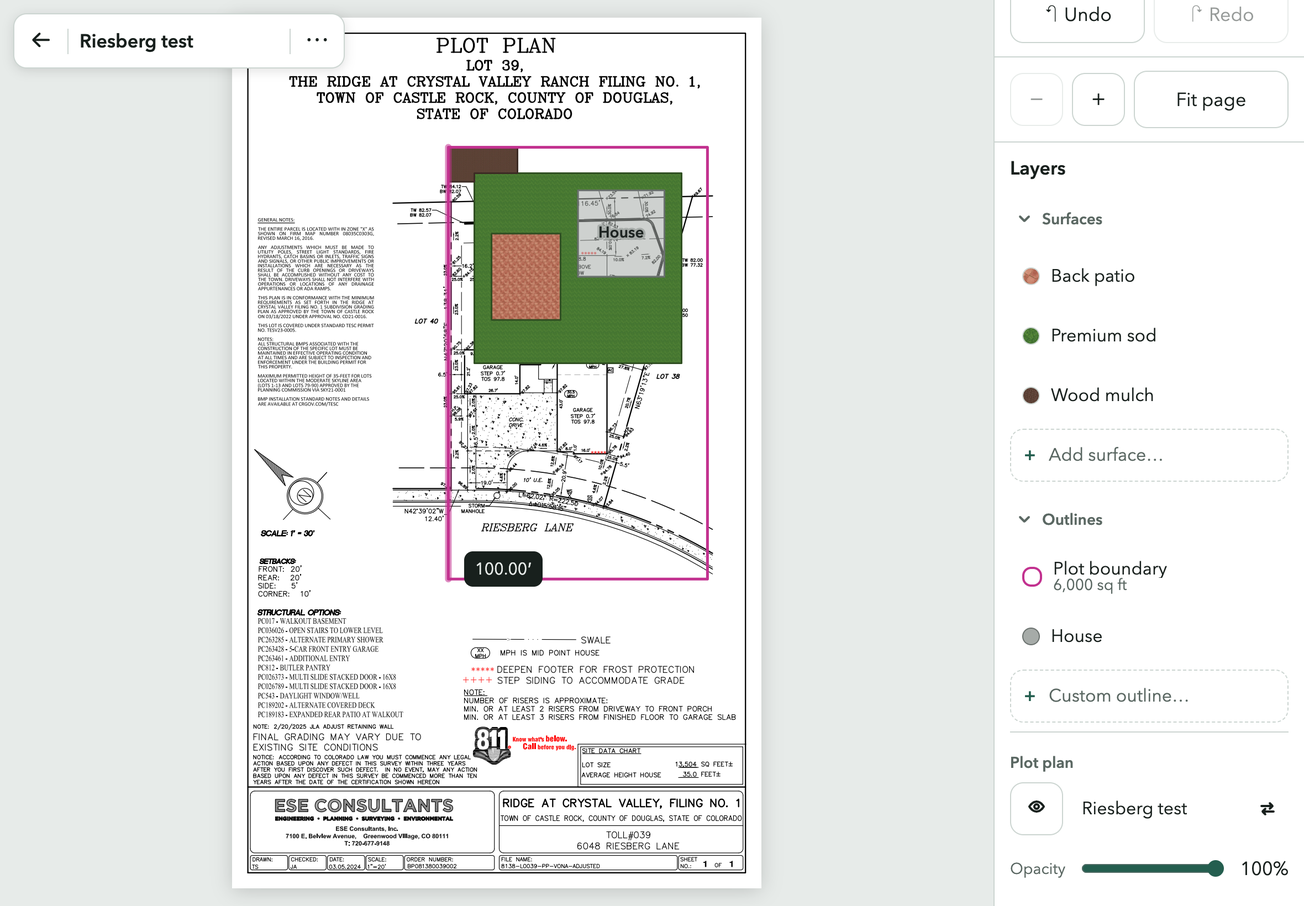
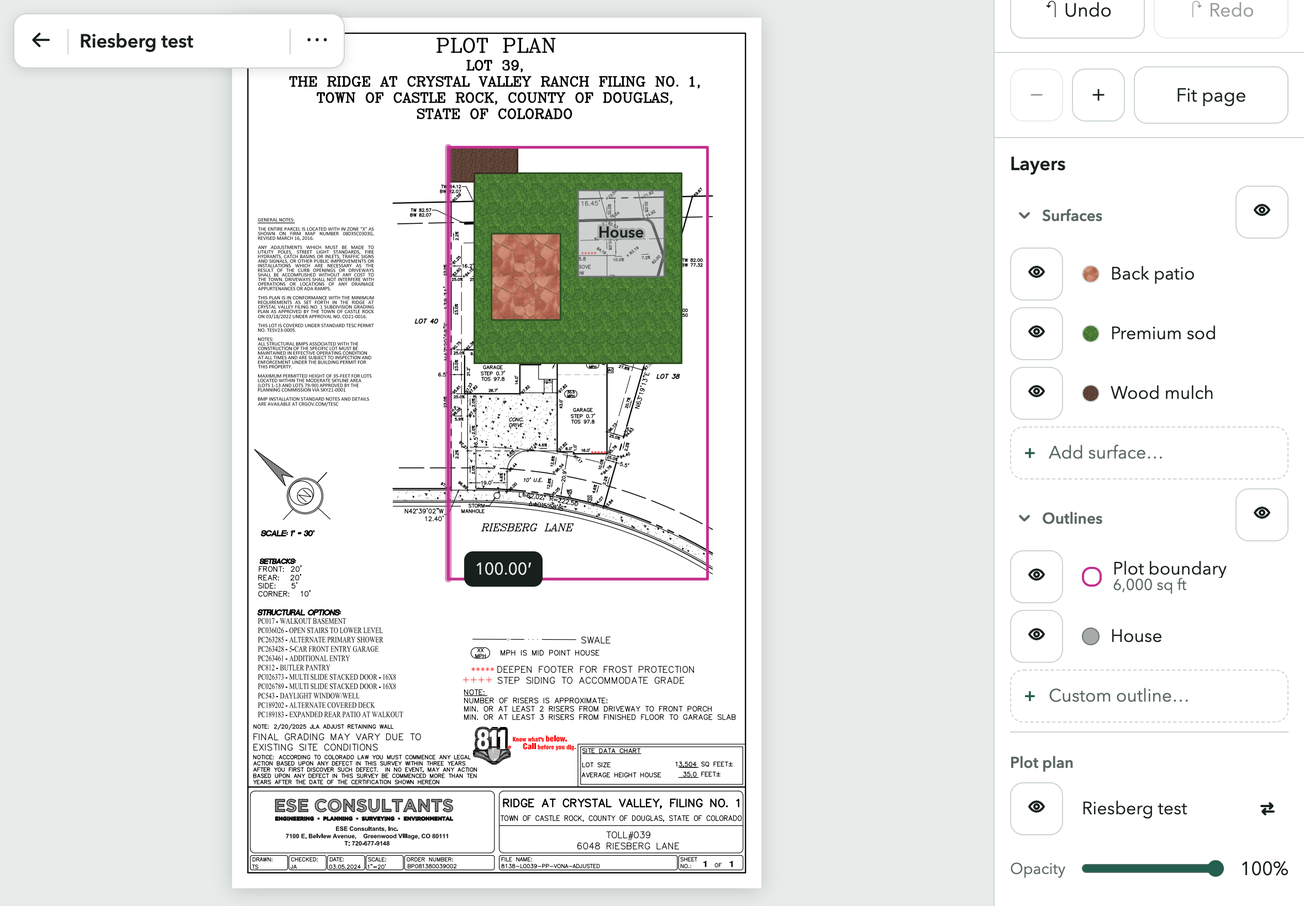
feat(surfaces): per-zone texture scale; show/hide layers and sections, saved with the plan

diff --git a/plan-builder/src/outline-ui.ts b/plan-builder/src/outline-ui.ts
@@ -3,11 +3,12 @@
 import {
   areaPt2, bulgeToward, constrain45, dist, edgeMid, edgePoints, formatFeet, formatScale, guides, nearestEdge,
   edgeTapOrder, moveInSection, nearestOnRing, snapSources, outlinePath, parseFeet, parseRadius, rectCorners, sectionPosition,
-  type Outline, type OutlineKind, type OutlineShape,
+  TEX_SCALE, type Outline, type OutlineKind, type OutlineShape,
 } from './outline';
 import { History } from './history';
 import { committedOutlines } from './editor-state';
 import type { PlanState } from './plan-model';
+import { groupOf, isHidden, type Group } from './sections';
 import { calibrate, IDENTITY, lineFeet, sameCorrection, type Calibration, type Correction, type Reference } from './scale';
 import { GESTURE, HIT, MAGNIFIER, MARK, POPOVER, SQUARE_CHIP, TIP } from './overlay-tokens';
 import { alignAll, alignCorner, cornerAngle, type Tidied } from './square';
@@ -98,6 +99,9 @@ export class OutlineTool {
   private dragBefore: Snapshot | null = null;
   private lastNudge: { t: number; id: string; i: number } | null = null;
   private revision = 0;
+  /** Hidden layers (by id) and sections: saved with the plan, but not undoable (like the view). */
+  hiddenLayers = new Set<string>();
+  hiddenSections = new Set<Group>();
 
   private svg: SVGSVGElement;
   private magnifier: HTMLCanvasElement;
@@ -165,6 +169,7 @@ export class OutlineTool {
   /** Replace everything with a saved plan: no selection, no undo history; snap and shape preferences stay. */
   load(state: PlanState) {
     this.outlines = structuredClone(state.outlines); this.refs = structuredClone(state.refs);
+    this.hiddenLayers = new Set(state.hiddenLayers?.filter(id => state.outlines[id])); this.hiddenSections = new Set(state.hiddenSections);
     this.drawing = null; this.replaced = null; this.selected = null; this.selectedCorner = null;
     this.drag = null; this.dragAt = null; this.snapped = null; this.stick = null; this.angle = null; this.hoverPlaced = null;
     this.selectedEdge = null; this.lastTap = null; this.lastNudge = null;
@@ -174,7 +179,28 @@ export class OutlineTool {
     this.update();
   }
   /** What to save: outlines and references, minus any outline still being drawn. */
-  state(): PlanState { return { outlines: committedOutlines(this.outlines, this.drawing, this.replaced), refs: structuredClone(this.refs) }; }
+  state(): PlanState {
+    const outlines = committedOutlines(this.outlines, this.drawing, this.replaced);
+    const layers = [...this.hiddenLayers].filter(id => outlines[id]);
+    return { outlines, refs: structuredClone(this.refs), hiddenLayers: layers.length ? layers : undefined, hiddenSections: this.hiddenSections.size ? [...this.hiddenSections] : undefined };
+  }
+  isHidden(id: string): boolean { const o = this.outlines[id]; return !!o && isHidden(o, this.hiddenLayers, this.hiddenSections); }
+  /** Show or hide one layer; a hidden layer isn't drawn, selected, snapped to or tapped. Not an undo step. */
+  toggleLayer(id: string) {
+    if (!this.outlines[id] || id === this.drawing) return;
+    if (!this.hiddenLayers.delete(id)) this.hiddenLayers.add(id);
+    this.visibilityChanged();
+  }
+  /** Show or hide a whole section; each layer's own eye is left as it was. */
+  toggleSection(g: Group) {
+    if (!this.hiddenSections.delete(g)) this.hiddenSections.add(g);
+    this.visibilityChanged();
+  }
+  private visibilityChanged() {
+    if (this.selected && this.isHidden(this.selected)) { this.selected = null; this.selectedCorner = null; this.selectedEdge = null; }
+    this.revision++; // saved, but nothing to undo
+    this.update();
+  }
   get saveRevision() { return this.revision; }
   undo() { if (this.drag) return; const s = this.history.undo(this.snapshot()); if (s) this.restore(s); }
   redo() { if (this.drag) return; const s = this.history.redo(this.snapshot()); if (s) this.restore(s); }
@@ -205,6 +231,15 @@ export class OutlineTool {
     o.material = m;
     this.update();
   }
+  /** Set a surface's texture scale (1 = the material's own repeat), within TEX_SCALE. */
+  setTexScale(id: string, scale: number) {
+    const o = this.outlines[id]; if (o?.kind !== 'surface') return;
+    const s = Math.min(TEX_SCALE.max, Math.max(TEX_SCALE.min, scale));
+    if ((o.texScale ?? 1) === s) return;
+    this.record();
+    if (s === 1) delete o.texScale; else o.texScale = s;
+    this.update();
+  }
   /** Draw an existing outline again from scratch, keeping its name; Cancel puts the old one back. */
   redraw(id: string) { const o = this.outlines[id]; if (o) this.begin(id, o.kind, o.name, o.material); }
   private begin(id: string, kind: OutlineKind, name: string, m?: MaterialId) {
@@ -212,6 +247,7 @@ export class OutlineTool {
     this.record();
     this.replaced = this.outlines[id] ?? null;
     this.outlines[id] = { id, kind, name, pts: [], closed: false, ...(m ? { material: m } : {}) };
+    this.hiddenLayers.delete(id); this.hiddenSections.delete(groupOf(this.outlines[id]!)); // drawing into a hidden layer shows it
     this.drawing = id;
     this.shape = this.shapePrefs[shapeGroup(kind)];
     this.selectedEdge = null; this.lastTap = null; this.selectedCorner = null; this.selected = null;
@@ -458,7 +494,7 @@ export class OutlineTool {
   /** Outlines a placed point may snap to: tracing the boundary or a feature ignores designed surfaces. */
   private snapTargets(exclude?: { id: string; i: number }) {
     const editing = exclude?.id ?? this.drawing;
-    return snapSources(Object.values(this.outlines), editing ? this.outlines[editing]?.kind ?? null : null);
+    return snapSources(Object.values(this.outlines).filter(o => !this.isHidden(o.id)), editing ? this.outlines[editing]?.kind ?? null : null);
   }
   private findSnap(raw: Point, exclude: { id: string; i: number } | undefined, lineOnly: boolean): Point | null {
     if (lineOnly) {
@@ -605,7 +641,7 @@ export class OutlineTool {
   }
   /** Select an outline from the Layers panel (null: drop the selection). */
   selectOutline(id: string | null) {
-    if (this.drawing || (id && !this.outlines[id]?.closed)) return;
+    if (this.drawing || (id && (!this.outlines[id]?.closed || this.isHidden(id)))) return;
     if (id !== this.selected) this.aspectLock = false;
     this.selectedEdge = null; this.selectedCorner = null; this.selected = id; this.update();
   }
@@ -647,7 +683,7 @@ export class OutlineTool {
   /** The layer whose visible part is under p (visible parts never overlap; one wholly covered can't be tapped). */
   private featureAt(p: Point): string | null {
     const pp = this.host.toPage(p);
-    for (const [id, shape] of this.visible) if (insideShape(shape, pp)) return id;
+    for (const [id, shape] of this.visible) if (!this.isHidden(id) && insideShape(shape, pp)) return id;
     return null;
   }
 
@@ -754,7 +790,7 @@ export class OutlineTool {
   private edgeAt(p: Point): { id: string; i: number } | null {
     const tol = HIT.edge / this.host.pxPerPt(), pp = this.host.toPage(p);
     for (const o of edgeTapOrder(Object.values(this.outlines), this.selected)) {
-      if (!o?.closed) continue;
+      if (!o?.closed || this.isHidden(o.id)) continue;
       const i = nearestEdge(o.pts, pp, tol, o.bulges);
       if (i !== null) return { id: o.id, i };
     }
@@ -912,7 +948,7 @@ export class OutlineTool {
     const paint = [...all.filter(o => o.kind === 'surface'), ...all.filter(o => o.kind !== 'surface')];
     paint.sort((a, b) => Number(a.id === active) - Number(b.id === active));
     for (const o of paint) {
-      if (!o || !o.pts.length) continue;
+      if (!o || !o.pts.length || (this.isHidden(o.id) && o.id !== this.drawing)) continue;
       const pts = o.pts.map(p => h.toScreen(p));
       const drawingThis = this.drawing === o.id, cursor = drawingThis ? this.dragAt ?? (this.drag ? null : this.hoverPlaced) : null;
       // Rectangle in progress: preview the whole rectangle from the first corner to the pointer.
@@ -957,7 +993,7 @@ export class OutlineTool {
     for (const o of Object.values(this.outlines)) {
       // Feature names go on top of every shape so overlapping features stay readable, inside each one's visible
       // part. Surfaces carry no label: their fill says what they are, and the row names them.
-      if (o.kind === 'surface') continue;
+      if (o.kind === 'surface' || this.isHidden(o.id)) continue;
       const shown = this.visible.get(o.id), at = shown && shapeLabelPoint(shown);
       if (!at) continue;
       const c = h.toScreen(at);

diff --git a/plan-builder/src/surfaces-ui.ts b/plan-builder/src/surfaces-ui.ts
@@ -2,7 +2,8 @@
 // zone in layer order (a higher zone cuts the ones below; outlines cut every zone), then "Add surface…", which
 // opens a material picker; picking a material starts drawing. The zone being drawn or selected expands into a card.
 import { material, materialsByFamily, type MaterialId } from './materials';
-import { formatFeet, parseFeet, parseRadius, type Outline } from './outline';
+import { TEX_SCALE } from './outline';
+import { formatFeet, parseFeet, parseRadius, stepTexScale, type Outline } from './outline';
 import type { OutlineTool } from './outline-ui';
 import { drawingCard, editActions, orderControl, wireLayerCard } from './layer-card';
 import { button, caption, choiceLine, chips, esc, field, formStack, hint, input, layerCard, layerForm, layerRow, nudgePad, row, suggestRow, swatch } from './ui';
@@ -24,7 +25,7 @@ export class SurfacesSection {
     if (t.drawing || !t.boundaryClosed) this.picking = false;
     if (this.changing && this.changing !== t.selected) this.changing = null; // the picker closes with the card
     const rows = zones.map(o => o.id === t.drawing || (!t.drawing && o.id === t.selected) ? this.card(o)
-      : layerRow(o.name, { swatch: { material: o.material! }, data: { zone: o.id } }));
+      : layerRow(o.name, { swatch: { material: o.material! }, data: { zone: o.id }, eye: { id: o.id, hidden: t.isHidden(o.id) } }));
     this.el.innerHTML = `
       ${zones.length ? '' : hint('Add the new surfaces: lawn, beds, patio…')}
       ${rows.join('')}
@@ -38,12 +39,17 @@ export class SurfacesSection {
     // Adding a zone closes the selected one's card, so only one material picker shows at a time.
     this.el.querySelector<HTMLButtonElement>('[data-act=add-surface]')?.addEventListener('click', () => { this.picking = true; if (t.selected) t.selectOutline(null); else this.render(); });
     this.el.querySelector<HTMLButtonElement>('[data-act=cancel-picker]')?.addEventListener('click', () => { this.picking = false; this.render(); });
+    this.el.querySelectorAll<HTMLButtonElement>('[data-eye]').forEach(b => { b.onclick = () => t.toggleLayer(b.dataset.eye!); });
     const card = this.el.querySelector<HTMLElement>('[data-card]');
     // The picker's chips start a new zone; the card's chips change that zone's material.
     this.el.querySelectorAll<HTMLButtonElement>('.layer-form [data-material]').forEach(b => { b.onclick = () => t.startSurface(b.dataset.material as MaterialId); });
     card?.querySelectorAll<HTMLButtonElement>('[data-material]').forEach(b => { b.onclick = () => { this.changing = null; t.setMaterial(card.dataset.card!, b.dataset.material as MaterialId); this.render(); }; });
     this.el.querySelector('form')?.addEventListener('submit', e => e.preventDefault());
     if (card) wireLayerCard(card, t, { 'change-material': () => { this.changing = card.dataset.card!; this.render(); } });
+    const scaleOf = () => t.outlines[card?.dataset.card ?? '']?.texScale ?? 1;
+    card?.querySelector<HTMLButtonElement>('[data-act=tex-down]')?.addEventListener('click', () => t.setTexScale(card.dataset.card!, stepTexScale(scaleOf(), -1)));
+    card?.querySelector<HTMLButtonElement>('[data-act=tex-up]')?.addEventListener('click', () => t.setTexScale(card.dataset.card!, stepTexScale(scaleOf(), 1)));
+    card?.querySelector<HTMLButtonElement>('[data-act=tex-reset]')?.addEventListener('click', () => t.setTexScale(card.dataset.card!, 1));
     const size = this.el.querySelector<HTMLFormElement>('form.zone-size');
     if (size && card) {
       const commit = (axis: 'w' | 'h', el: HTMLInputElement) => {
@@ -73,6 +79,15 @@ export class SurfacesSection {
       box('zone-depth', 'Depth', b.h))}`, 'zone-size', true);
   }
 
+  /** Texture scale: − smaller, the percent (tap to reset to 100%), + larger. */
+  private texScale(o: Outline): string {
+    const s = o.texScale ?? 1;
+    return `${caption('Texture scale')}${row(
+      button('−', { mods: ['icon'], ariaLabel: 'Smaller texture', data: { act: 'tex-down' }, disabled: s <= TEX_SCALE.min }),
+      button(`${Math.round(s * 100)}%`, { mods: ['compact'], ariaLabel: 'Reset texture scale to 100%', data: { act: 'tex-reset' } }),
+      button('+', { mods: ['icon'], ariaLabel: 'Larger texture', data: { act: 'tex-up' }, disabled: s >= TEX_SCALE.max }))}`;
+  }
+
   /** The expanded row: drawing — the step and Close shape / Cancel; selected — rename, material, rounding, tidy, order. */
   private card(o: Outline): string {
     const t = this.tool, sw = { material: o.material! };
@@ -84,7 +99,7 @@ export class SurfacesSection {
       input('round-all', { inputmode: 'decimal', placeholder: 'Radius, e.g. 2′' }), button('Apply', { mods: ['compact'], type: 'submit' }))), 'round-all') : '';
     return layerCard({
       id: o.id, swatch: sw, name: o.name, done: true, rename: true, renameId: 'surface-rename',
-      body: `${caption('Material')}${mat}${this.size(o)}${t.cornerSelected ? nudgePad() : ''}${round}${editActions(true)}${orderControl(t, o.id)}`,
+      body: `${caption('Material')}${mat}${this.texScale(o)}${this.size(o)}${t.cornerSelected ? nudgePad() : ''}${round}${editActions(true)}${orderControl(t, o.id)}`,
     });
   }
 }

diff --git a/plan-builder/index.html b/plan-builder/index.html
@@ -44,17 +44,27 @@
         </section>
         <section class="side-section layers">
           <h2 class="side-title">Layers</h2>
-          <button type="button" class="group-head" data-group="surfaces" aria-expanded="true" aria-controls="group-surfaces">
-            <svg class="line-icon chevron" viewBox="0 0 16 16" aria-hidden="true"><path d="M4 6l4 4 4-4" /></svg>
-            <span class="group-title">Surfaces</span><span class="group-count" hidden></span>
-          </button>
+          <div class="group-line">
+            <button type="button" class="group-head" data-group="surfaces" aria-expanded="true" aria-controls="group-surfaces">
+              <svg class="line-icon chevron" viewBox="0 0 16 16" aria-hidden="true"><path d="M4 6l4 4 4-4" /></svg>
+              <span class="group-title">Surfaces</span><span class="group-count" hidden></span>
+            </button>
+            <button type="button" class="icon" data-eye-group="surfaces" aria-pressed="true" aria-label="Hide all surfaces" title="Hide all surfaces">
+              <svg class="line-icon" viewBox="0 0 16 16" aria-hidden="true"><path class="eye" d="M1.5 8s2.5-4.5 6.5-4.5S14.5 8 14.5 8s-2.5 4.5-6.5 4.5S1.5 8 1.5 8z" /><circle class="eye" cx="8" cy="8" r="2" /><path class="eye-off" d="M2.5 2.5l11 11" /></svg>
+            </button>
+          </div>
           <div class="group-body" id="group-surfaces">
             <div class="layer-list" id="surfaces"></div>
           </div>
-          <button type="button" class="group-head" data-group="outlines" aria-expanded="true" aria-controls="group-outlines">
-            <svg class="line-icon chevron" viewBox="0 0 16 16" aria-hidden="true"><path d="M4 6l4 4 4-4" /></svg>
-            <span class="group-title">Outlines</span><span class="group-count" hidden></span>
-          </button>
+          <div class="group-line">
+            <button type="button" class="group-head" data-group="outlines" aria-expanded="true" aria-controls="group-outlines">
+              <svg class="line-icon chevron" viewBox="0 0 16 16" aria-hidden="true"><path d="M4 6l4 4 4-4" /></svg>
+              <span class="group-title">Outlines</span><span class="group-count" hidden></span>
+            </button>
+            <button type="button" class="icon" data-eye-group="outlines" aria-pressed="true" aria-label="Hide all outlines" title="Hide all outlines">
+              <svg class="line-icon" viewBox="0 0 16 16" aria-hidden="true"><path class="eye" d="M1.5 8s2.5-4.5 6.5-4.5S14.5 8 14.5 8s-2.5 4.5-6.5 4.5S1.5 8 1.5 8z" /><circle class="eye" cx="8" cy="8" r="2" /><path class="eye-off" d="M2.5 2.5l11 11" /></svg>
+            </button>
+          </div>
           <div class="group-body" id="group-outlines">
             <div class="layer-list" id="outlines"></div>
             <div class="plan-layer">

diff --git a/plan-builder/src/ui.ts b/plan-builder/src/ui.ts
@@ -110,15 +110,24 @@ export interface LayerRowOptions {
   swatch: Swatch; meta?: string; selected?: boolean; data?: Record<string, string>;
   /** A quiet second line under the name (e.g. the plot area). */
   sub?: string;
+  /** Adds an eye beside the row that shows or hides layer `id`. */
+  eye?: { id: string; hidden: boolean };
 }
+/** An eye toggle: pressed = shown. `what` names it for the label ("Lawn"); `data` says what it toggles. */
+export const eyeButton = (hidden: boolean, what: string, data: Record<string, string>) => {
+  const label = `${hidden ? 'Show' : 'Hide'} ${what}`, d = Object.entries(data).map(([k, v]) => ` data-${k}="${esc(v)}"`).join('');
+  return `<button type="button" class="icon" aria-pressed="${!hidden}" aria-label="${esc(label)}" title="${esc(label)}"${d}>`
+    + '<svg class="line-icon" viewBox="0 0 16 16" aria-hidden="true"><path class="eye" d="M1.5 8s2.5-4.5 6.5-4.5S14.5 8 14.5 8s-2.5 4.5-6.5 4.5S1.5 8 1.5 8z" /><circle class="eye" cx="8" cy="8" r="2" /><path class="eye-off" d="M2.5 2.5l11 11" /></svg></button>';
+};
 const layerName = (name: string, sub?: string) => sub
   ? `<span class="layer-text"><span class="layer-name">${esc(name)}</span><span class="layer-sub">${esc(sub)}</span></span>`
   : `<span class="layer-name">${esc(name)}</span>`;
 export function layerRow(name: string, o: LayerRowOptions): string {
   const data = Object.entries(o.data ?? {}).map(([k, v]) => ` data-${k}="${esc(v)}"`).join('');
-  return `<button type="button" class="layer-row${o.selected ? ' selected' : ''}"${data}${o.selected ? ' aria-pressed="true"' : ''}>`
+  const row = `<button type="button" class="layer-row${o.selected ? ' selected' : ''}${o.eye?.hidden ? ' off' : ''}"${data}${o.selected ? ' aria-pressed="true"' : ''}>`
     + `${swatch(o.swatch)}${layerName(name, o.sub)}`
     + `${o.meta ? `<span class="layer-meta">${esc(o.meta)}</span>` : ''}</button>`;
+  return o.eye ? `<div class="layer-item">${eyeButton(o.eye.hidden, name, { eye: o.eye.id })}${row}</div>` : row;
 }
 /**
  * Layer card: the row of the outline being drawn or edited, expanded in place. The head keeps the swatch and

diff --git a/plan-builder/src/layers-ui.ts b/plan-builder/src/layers-ui.ts
@@ -19,7 +19,7 @@ export class OutlinesSection {
     const s = outlineSuggestions(all);
     const ordered = [...all.filter(o => o.kind === 'boundary'), ...all.filter(o => o.kind === 'feature')];
     const rows = ordered.map(o => o.id === t.drawing || (!t.drawing && o.id === t.selected) ? this.card(o) : layerRow(o.name, {
-      swatch: swatchOf(o), data: { layer: o.id },
+      swatch: swatchOf(o), data: { layer: o.id }, eye: { id: o.id, hidden: t.isHidden(o.id) },
       sub: o.kind === 'boundary' && o.closed ? areaText(t.areaSqft(o)) : undefined, // the plot area, quietly, once scaled
     }));
     const scaleHint = !t.cal && all.some(o => o.closed) && !t.drawing
@@ -39,6 +39,7 @@ export class OutlinesSection {
           ${splitRow(button('Outline', { type: 'submit', variant: 'primary' }), button('Cancel', { data: { act: 'cancel-name' } }))}`)
         : suggestRow('Custom outline…', { act: 'name' })}`;
 
+    this.el.querySelectorAll<HTMLButtonElement>('[data-eye]').forEach(b => { b.onclick = () => t.toggleLayer(b.dataset.eye!); });
     this.el.querySelectorAll<HTMLButtonElement>('[data-layer]').forEach(b => {
       b.onclick = () => {
         const id = b.dataset.layer!;

diff --git a/plan-builder/src/main.ts b/plan-builder/src/main.ts
@@ -141,7 +141,13 @@ function updateGroups() {
     $(`group-${g}`).hidden = !isOpen;
     count.hidden = isOpen; count.textContent = `· ${counts[g]}`;
   });
+  document.querySelectorAll<HTMLButtonElement>('[data-eye-group]').forEach(b => {
+    const g = b.dataset.eyeGroup as Group, hidden = tool.hiddenSections.has(g), name = g === 'surfaces' ? 'surfaces' : 'outlines';
+    b.setAttribute('aria-pressed', String(!hidden));
+    b.setAttribute('aria-label', `${hidden ? 'Show' : 'Hide'} all ${name}`); b.title = b.getAttribute('aria-label')!;
+  });
 }
+document.querySelectorAll<HTMLButtonElement>('[data-eye-group]').forEach(b => { b.onclick = () => tool.toggleSection(b.dataset.eyeGroup as Group); });
 document.querySelectorAll<HTMLButtonElement>('.group-head').forEach(b => {
   b.onclick = () => setGroupOpen(b.dataset.group as Group, !groupsOpen[b.dataset.group as Group]);
 });

diff --git a/plan-builder/src/styles/components.css b/plan-builder/src/styles/components.css
@@ -98,6 +98,9 @@ button.layer-row.selected { background: var(--color-bg); border-color: var(--col
 button.layer-row.suggest { color: var(--color-muted); border: var(--border-width) dashed var(--color-line); }
 .layer-item { display: flex; align-items: center; gap: var(--space-3); }
 .layer-item > .layer-row { flex: 1; min-width: 0; }
+button.layer-row.off { opacity: var(--opacity-layer-off); }
+.group-line { display: flex; align-items: center; gap: var(--space-3); }
+.group-line > button.group-head { flex: 1; min-width: 0; }
 .layer-text { flex: 1; min-width: 0; display: flex; flex-direction: column; line-height: var(--leading-tight); }
 .layer-sub { font-size: var(--text-sm); color: var(--color-muted); font-variant-numeric: tabular-nums; }
 .layer-name { flex: 1; min-width: 0; overflow: hidden; text-overflow: ellipsis; white-space: nowrap; }

diff --git a/plan-builder/src/styles/tokens.css b/plan-builder/src/styles/tokens.css
@@ -103,6 +103,7 @@
   --mix-snap-halo: 18%; /* Disc behind a snapped point. */
   --mix-material-edge: 65%; /* How much of the material colour stays when shading it with color-material-shade for pat… */
   --opacity-surface-editing: 0.5; /* Fill of the selected surface or the one being drawn, so the plan shows through. */
+  --opacity-layer-off: 0.45; /* A hidden layer's row in the Layers panel, dimmed so it reads as off. */
 
   /* ---------- Layout and misc ---------- */
   --z-toast: 5; /* Toast: above the plan, the panel and popovers (it never takes taps). */

diff --git a/docs/conversations/2026-10-16-surface-textures.md b/docs/conversations/2026-10-16-surface-textures.md
@@ -4,11 +4,18 @@
 - Zones now fill with the **29 area textures** of the Figma library instead of the 11 flat colours + patterns. Symbols (plants, objects) are a separate spec that comes next.
 - **Area surfaces only** for now. Linear (fence, walls, edging, dry river), point (stepping stones) and utility-marker surfaces wait for the symbols spec, because they need line drawing, counting and a marker tool.
 - Textures are **bundled tiles**, cut from the Figma Surfaces section by `scripts/build-surface-tiles.mjs`. They are not drawn in code. Duplicates in Figma (second Putting green, Breeze, an extra Pavers) were dropped.
-- **True scale:** every texture repeats at 6 ft (first tried 2 ft: pavers and boards looked far too small) and grows with zoom (not a fixed screen size like the old patterns). Without a scale the texture shows at a fixed size. Tiles never go below 4 px.
+- **True scale:** every texture repeats at 10 ft by default (2 ft, then 6 ft, looked far too small), and each zone can scale it and grows with zoom (not a fixed screen size like the old patterns). Without a scale the texture shows at a fixed size. Tiles never go below 4 px.
 - **Picker** groups by family (six groups) with a texture thumbnail on each chip, replacing Hardscape / Softscape.
 - **Saved plans** keep working: the 11 old ids map to the nearest texture when a plan loads (sod → Premium sod, gravel → Clear mountain granite, …). An unknown id makes the plan invalid.
 - The 11 `color-material-*` tokens are gone. A zone's edge colour is the tile's average colour, kept as data.
 
+## Texture scale and show/hide (same day)
+- Default repeat is now **10 ft** (2 and 6 ft looked far too small).
+- **Texture scale per zone**, saved with the zone: − / percent / + in the zone card, ×1.25 per press within 25%–400%, tap the percent to reset. One global slider was the alternative. Each zone draws with its own pattern.
+- **Eyes** on every layer row and on the Surfaces and Outlines headers. Hidden layers aren't drawn, selected, tapped or snapped to, but still cut other layers. A header eye leaves each layer's own eye alone.
+- Visibility is **saved with the plan** (session-only was the alternative), as `hiddenLayers` and `hiddenSections` next to `outlines` (not on the outlines, so undo can't bring a layer back). Not an undo step.
+- The plot boundary belongs to the Outlines section. Only collapsed rows have an eye; a selected layer's card has none.
+
 ## Later
 - Tiles are 184 px (the size Figma gives); re-export larger if textures look soft at high zoom.
-- Per-material tile sizes (some textures may want a bigger or smaller repeat than 6 ft).
+- Per-material tile sizes (some textures may want a bigger or smaller repeat than 10 ft).

diff --git a/docs/PRD.md b/docs/PRD.md
@@ -110,7 +110,9 @@
 
 ### 6.8 Surfaces (Step 4) ✅🔨
 - The contractor adds the **new work** as zones filled with a material. Stage 1 is **visual only** (no quantities yet).
-- **Materials:** the **29 area textures of the Landscaping symbols library** (Figma `0B2UpvIGBFOE1ZEDx8rXPR`), grouped in the picker by family — Turf & seed, Mulch & soil, Rock & gravel, Pavers & stone, Concrete, Decking. Each is a photo-texture tile that **repeats at a real-world size (6 ft) and scales with zoom and the plan's scale**; a plan with no scale yet shows a fixed-size texture. Plans saved with the earlier 11 flat-colour materials open with the nearest texture. Linear, point and utility surfaces (fences, walls, edging, stepping stones, dry river, gas/electric/drainage markers) come with the symbols step.
+- **Materials:** the **29 area textures of the Landscaping symbols library** (Figma `0B2UpvIGBFOE1ZEDx8rXPR`), grouped in the picker by family — Turf & seed, Mulch & soil, Rock & gravel, Pavers & stone, Concrete, Decking. Each is a photo-texture tile that **repeats at a real-world size (10 ft by default; each zone can scale it) and scales with zoom and the plan's scale**; a plan with no scale yet shows a fixed-size texture. Plans saved with the earlier 11 flat-colour materials open with the nearest texture. Linear, point and utility surfaces (fences, walls, edging, stepping stones, dry river, gas/electric/drainage markers) come with the symbols step.
+- **Texture scale:** each zone's card has a **Texture scale** control (− / percent / +, ×1.25 per press, 25%–400%; tap the percent to reset). Saved with the zone; one undo step per press.
+- **Show / hide:** an eye on every layer row and on the **Surfaces** and **Outlines** headers. A hidden layer isn't drawn, selected, tapped or snapped to; it still cuts (hiding the House leaves its hole in the lawn). A header's eye hides all its layers without changing their own eyes. Saved **with the plan** (not an undo step); drawing into a hidden layer shows it.
 - **Layers:** a **Surfaces** section (hardscape and softscape together) **above Outlines**; Objects & plants will sit between them later.
 - **Clipping:** the plot boundary clips zones; **existing features (Outlines) always cut zones**, whatever was drawn first; within Surfaces a higher zone cuts lower ones; Layer order ↑ ↓ stays within the section; a zone drawn wholly inside another zone goes just above it.
 - **Starting a zone:** only once the plot boundary is closed. **Add surface…** → pick a material → draw with Freehand or Rectangle (same tool, snapping, curves, Square, undo). Zones also snap to other outlines' **edges**, so a bed can share the lawn's edge.

diff --git a/docs/superpowers/specs/2026-10-16-surface-textures-design.md b/docs/superpowers/specs/2026-10-16-surface-textures-design.md
@@ -34,7 +34,7 @@ interface Material {
   family: Family;
   trade: Trade;          // kept for later quantities; not used by the picker
   tile: string;          // asset URL (Vite import)
-  tileFt: number;        // real-world repeat; default 6
+  tileFt: number;        // real-world repeat; default 10
   edge: string;          // zone edge colour, average of the tile, computed at export
 }
 ```
